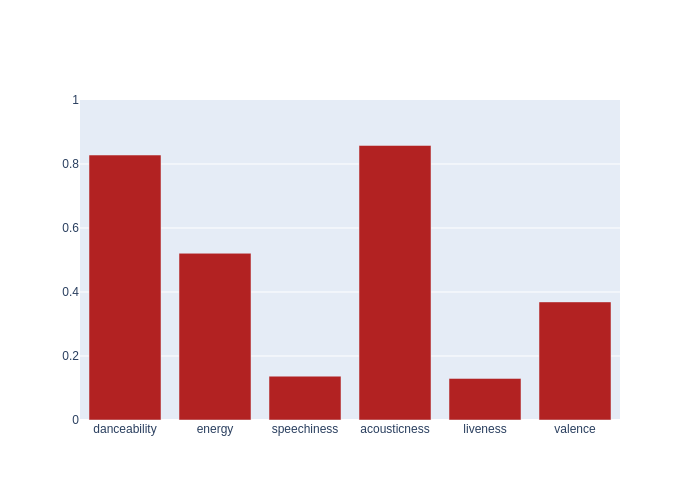
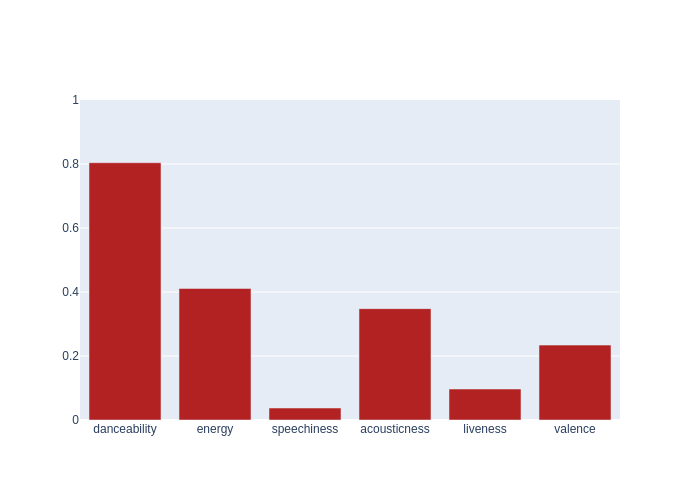
Automated README update

diff --git a/README.md b/README.md
@@ -4,7 +4,7 @@ Automated music metrics for fun, updated hourly.
 
 ## Spotify
 
-- currently listening to **SAINt JHN - Monica Lewinsky (feat. A Boogie Wit da Hoodie)**
+- currently listening to **Santino Le Saint - Kill My High Freestyle - Bonus Track**
 
 - **826** liked songs
 - **127** playlists
